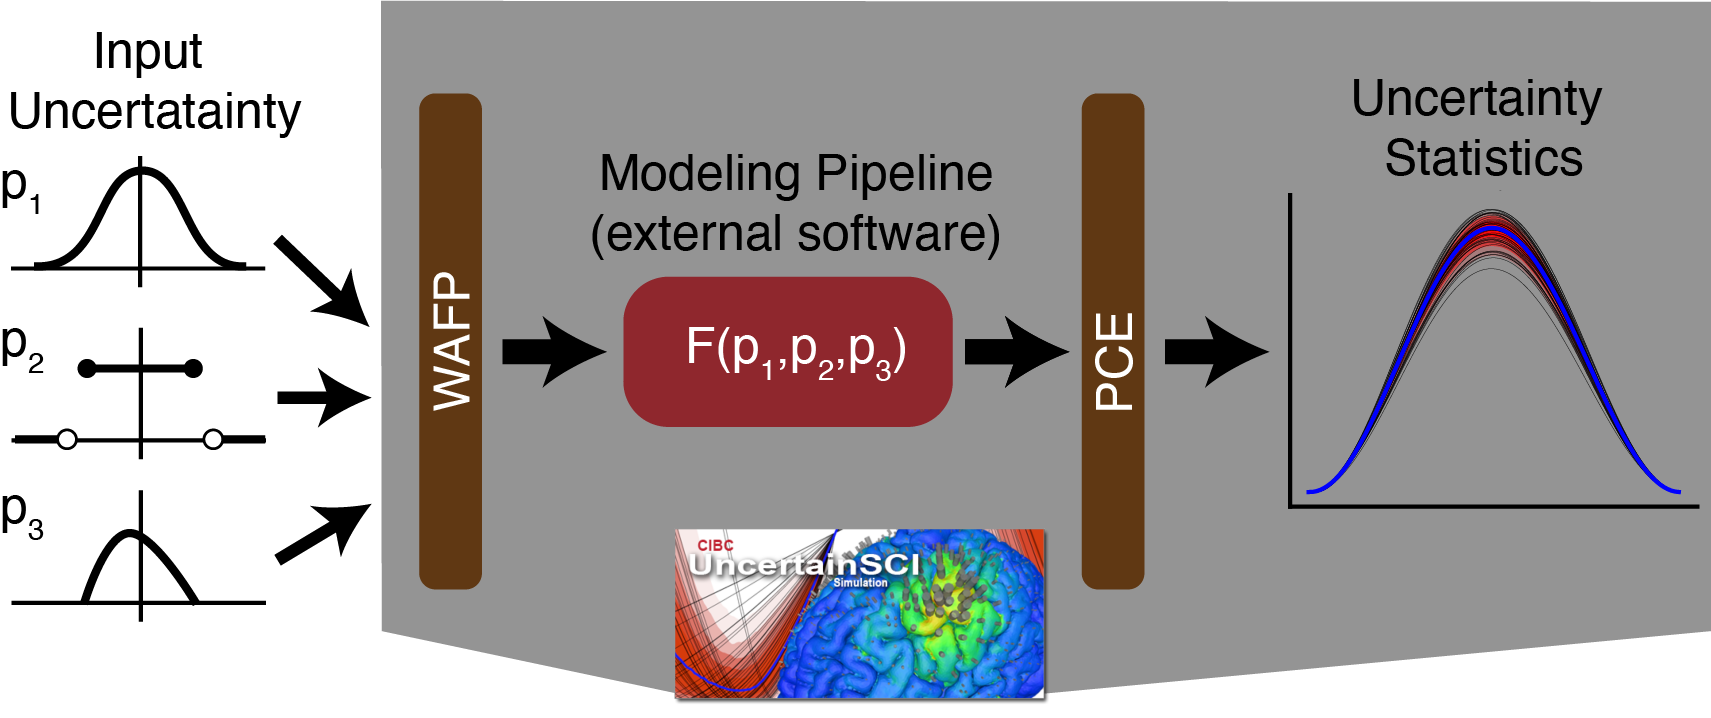
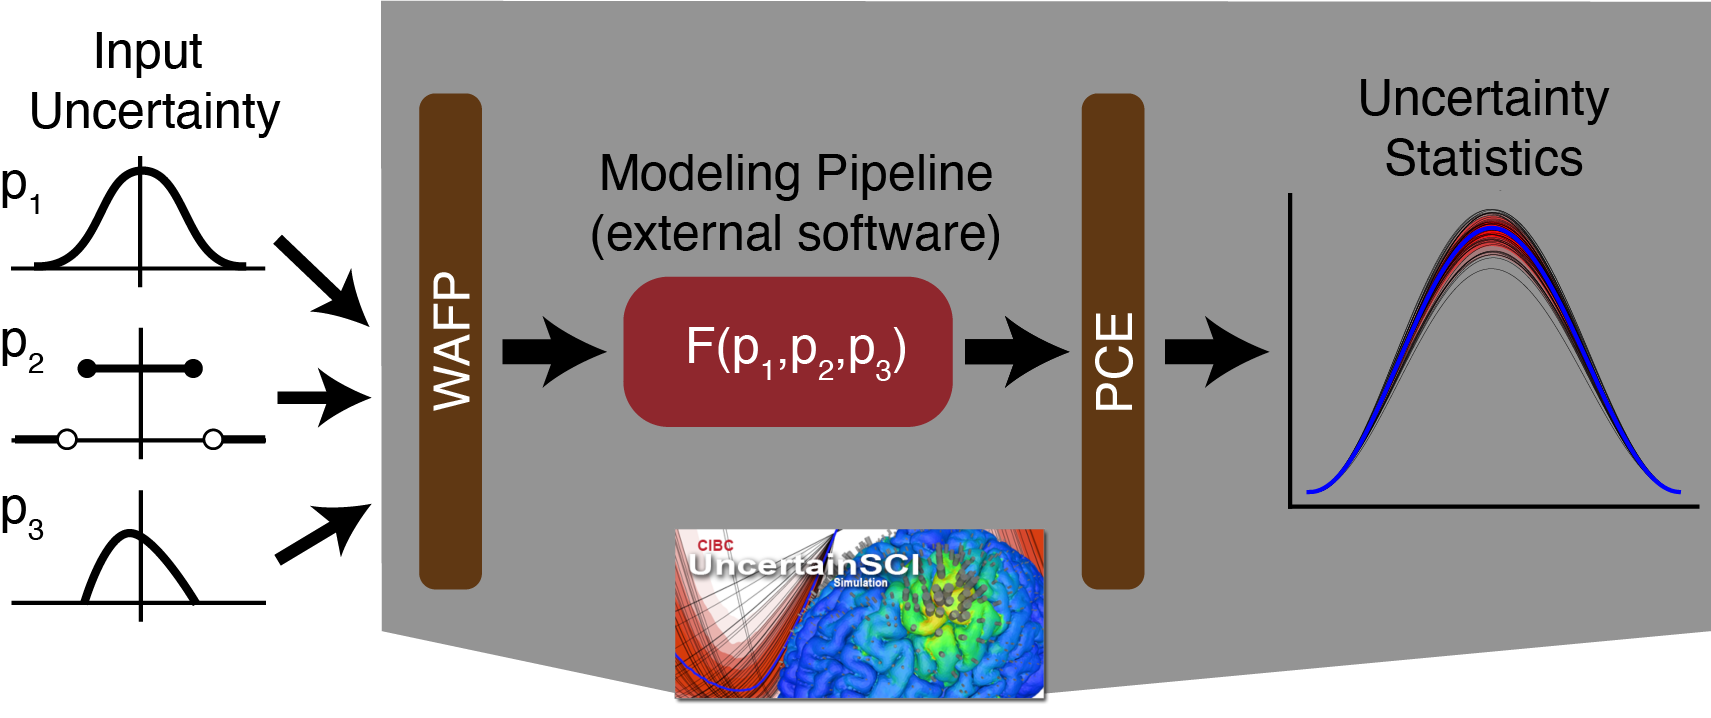
some correcrtions

Changed region(s): [[0.7744, 0.0919, 0.9603, 0.1838], [0.0, 0.1226, 0.1859, 0.1838]]

diff --git a/paper/paper.md b/paper/paper.md
@@ -15,24 +15,21 @@ authors:
     affiliation: 1
  - name: Zexin Liu
    orcid: 
-   affiliation: "1, 2"
- - name: Jake A Bergquist
-   orcid: 
    affiliation: "1, 3" 
  - name: Jake A Bergquist
    orcid: 
-   affiliation: "1, 3" 
+   affiliation: "4" 
  - name: Sumientra Rampersad
    orcid: 
-   affiliation: 4
- - name: Dan White
    affiliation: 1
+ - name: Dan White
+   affiliation: 1,3
  - name: Chantel Charlebois
    orcid: 
    affiliation: "1, 3" 
  - name: Lindsay Rupp
    orcid: 
-   affiliation: "1, 3" 
+   affiliation: "5" 
  - name: Dana H Brooks
    affiliation: 4
  - name: Rob S MacLeod
@@ -46,9 +43,11 @@ affiliations:
    index: 2
  - name: Biomedical Engineering Department , University of Utah, Salt Lake City, UT, USA
    index: 3
-- name: Electrical and Computer Engineering Department, Northeastern University, Boston, MA, USA
-   index: 4
-date: July 8, 2021
+- name: Electrical and Computer Engineering Department, University of Massachussetts, Boston, MA, USA
+  index: 4
+- name: Physics Department, Northeastern University, Boston, MA, USA
+   index: 5
+date: Dec 17, 2021
 bibliography: paper.bib
 ---
 
